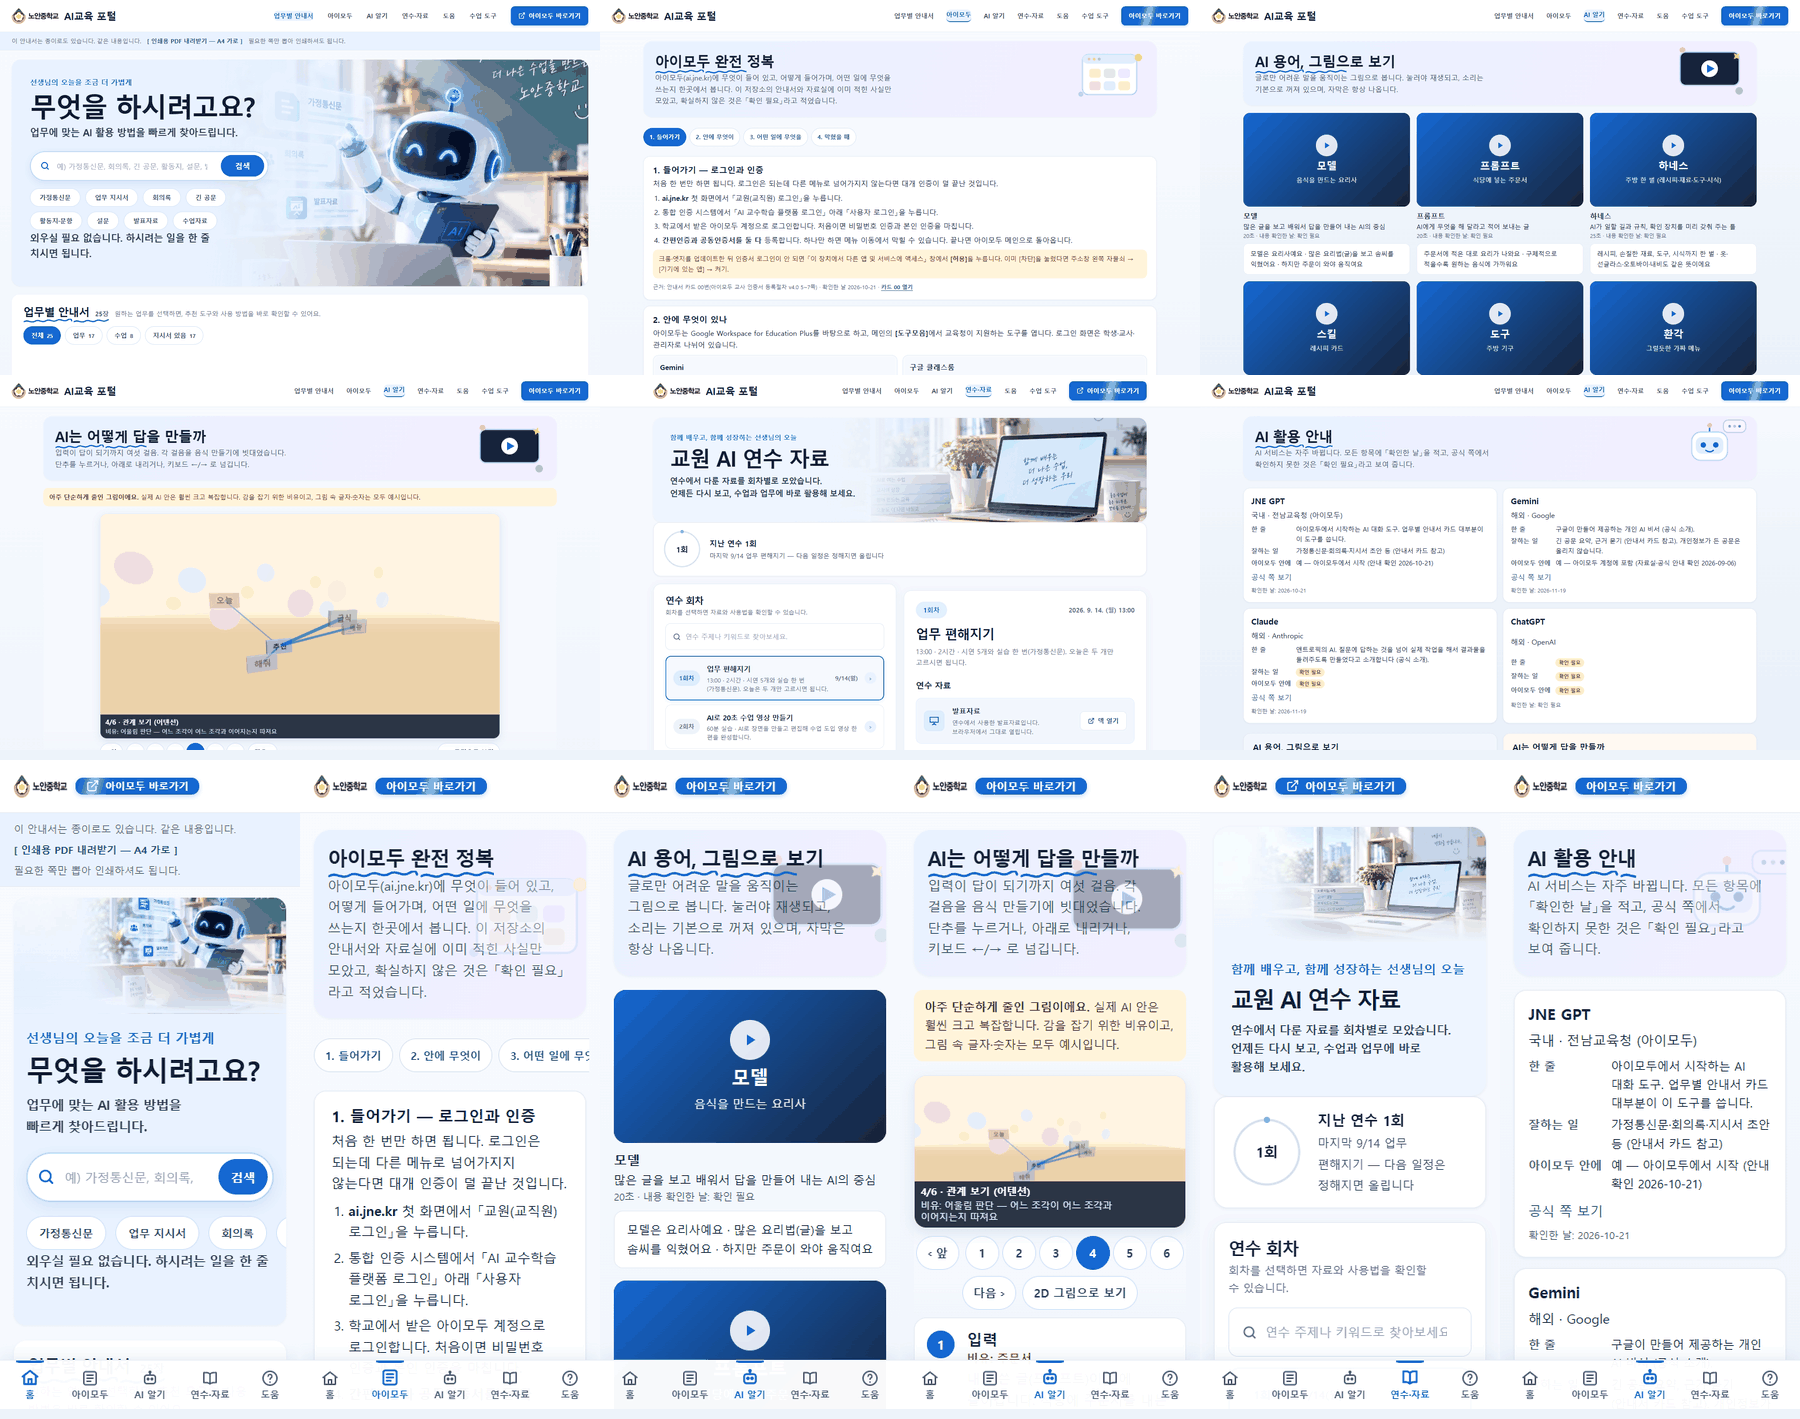
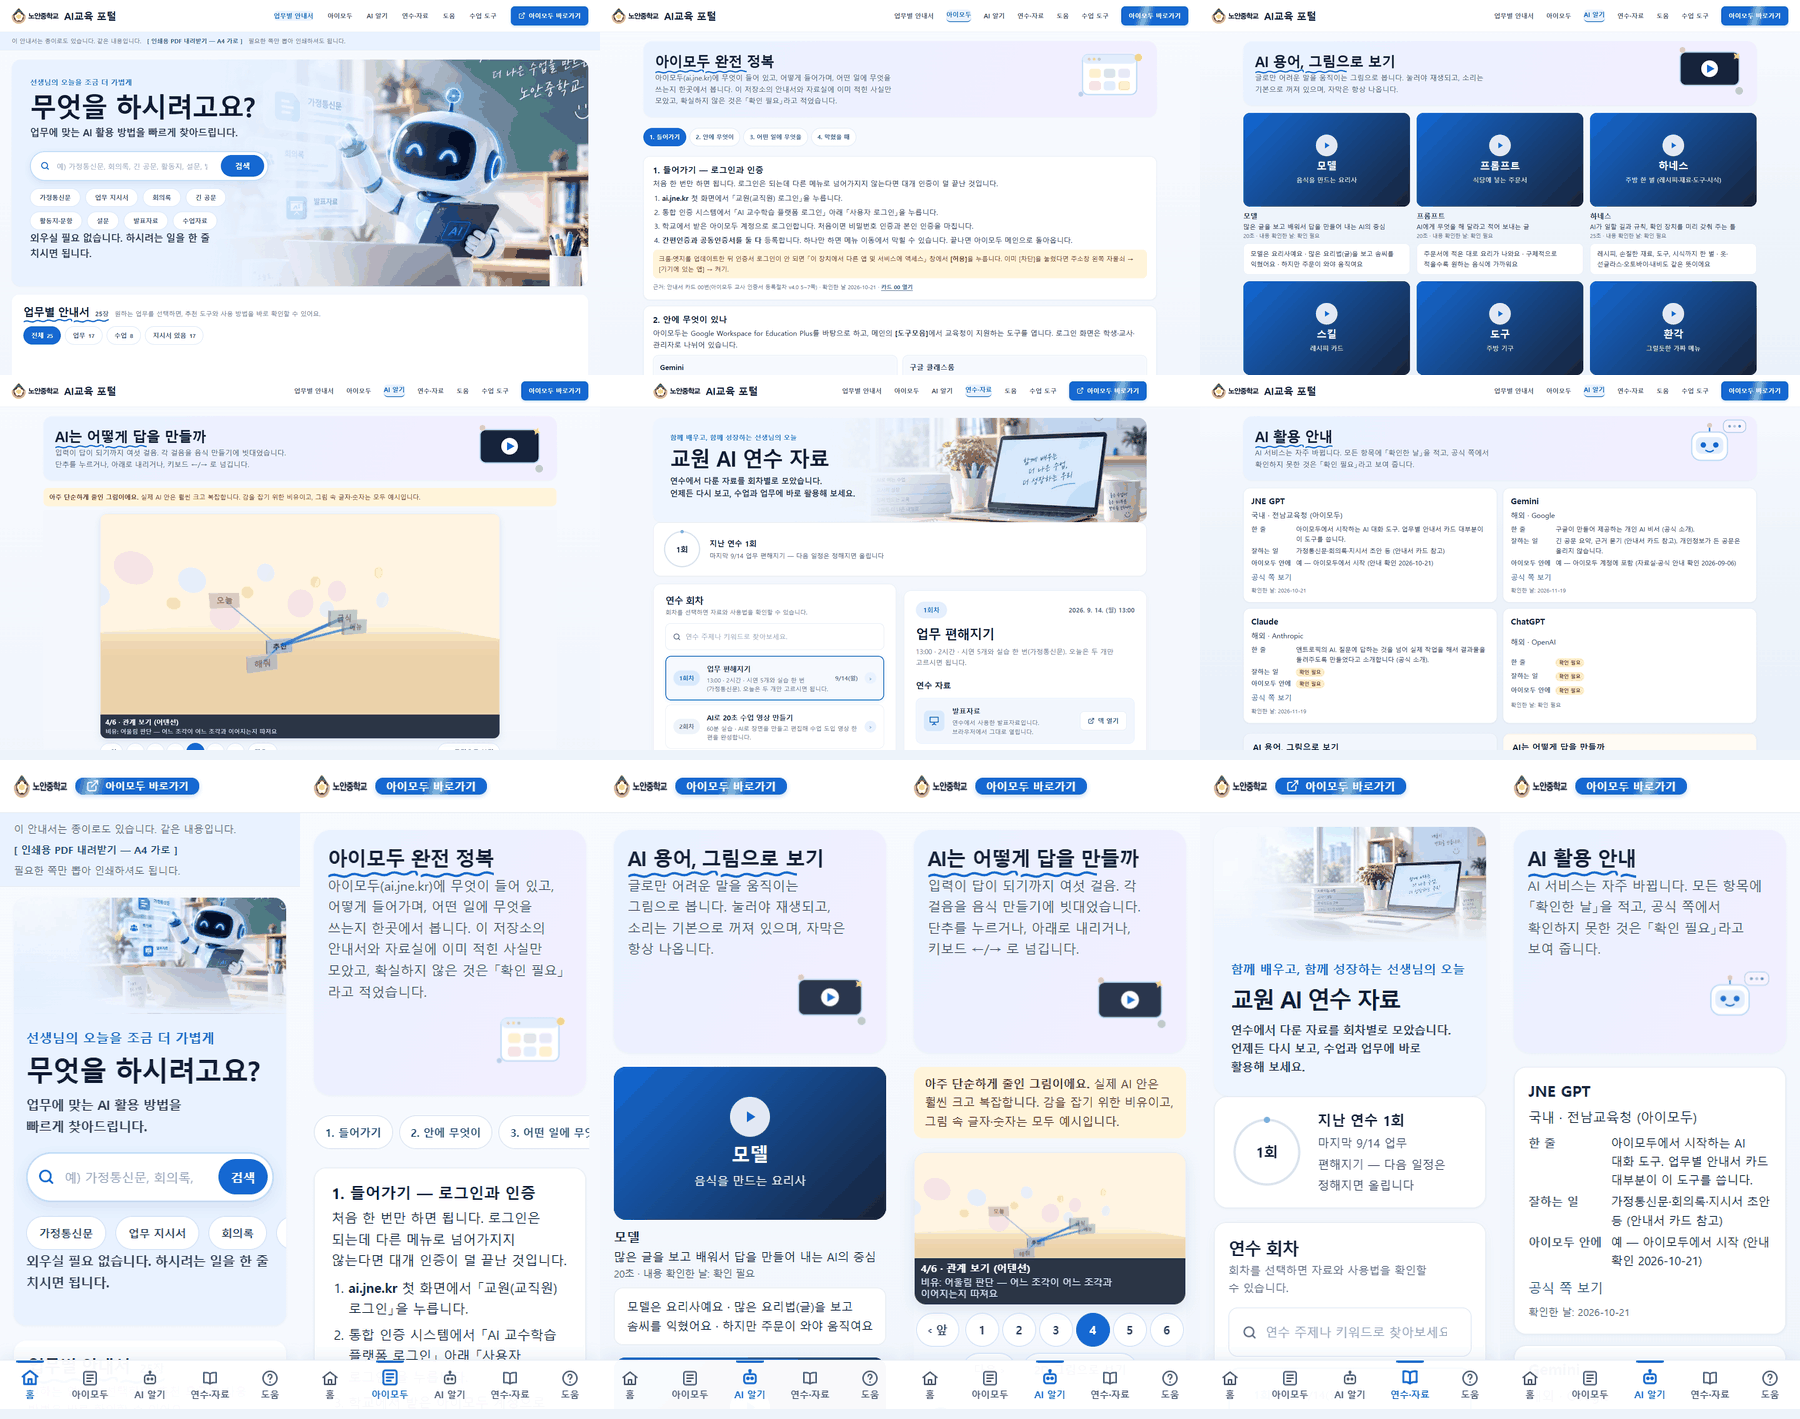
fix(ui): stack hero illustration below text on narrow widths; 3D step 3 gets cluster discs, labels and hint

diff --git a/how-ai-answers/scene3d.js b/how-ai-answers/scene3d.js
@@ -33,7 +33,7 @@
     var dl = new T.DirectionalLight(0xffffff, 0.45); dl.position.set(4, 8, 6); scene.add(dl);
 
     var floor = new T.Mesh(new T.PlaneGeometry(60, 60), new T.MeshBasicMaterial({ color: 0xEBD2AA }));
-    floor.rotation.x = -Math.PI / 2; floor.position.y = -2.4; scene.add(floor);
+    floor.rotation.x = -Math.PI / 2; floor.position.y = -4.6; scene.add(floor);
     /* 멀리 있는 배경 동그라미들 — 돌리 줌에서 배경이 늘어나 보이게 한다 */
     var bg = new T.Group(); scene.add(bg);
     for (var b = 0; b < 14; b++) {
@@ -88,6 +88,22 @@
     var ansG = new T.Group(); ansG.add(new T.Mesh(new T.PlaneGeometry(5.4, 1.12), ansM));
     var ans = mk(ansG, [ansM]);
 
+
+    /* 의미 공간 설명: 비슷한 뜻끼리 묶인 둥근 자리와 이름표 */
+    function disc(col, r, lbl, pos, lp) {
+      var g = new T.Group();
+      var dm = new T.MeshBasicMaterial({ color: col, transparent: true });
+      var d = new T.Mesh(new T.CircleGeometry(r, 40), dm); g.add(d);
+      var tm = new T.MeshBasicMaterial({ map: canvasTex(lbl, 512, 112, null, '#6B5A45', 58), transparent: true });
+      var tp = new T.Mesh(new T.PlaneGeometry(3.6, .8), tm); tp.position.set(0, -r - .5, .05); g.add(tp);
+      var o = mk(g, [dm, tm]); o.max = 0.5; o.pos = pos; return o;
+    }
+    var discA = disc(0xA9DCC0, 2.0, '음식 이야기', [2.0, 0.4, 0.2]);
+    var discB = disc(0xC9B6F8, 1.7, '부탁하는 말', [-1.35, -1.05, -0.9]);
+    var hintM = new T.MeshBasicMaterial({ map: canvasTex('뜻이 비슷하면 가까이 놓여요', 896, 120, '#FFFDF7', '#5B4A36', 58), transparent: true });
+    var hintG = new T.Group(); hintG.add(new T.Mesh(new T.PlaneGeometry(7, .94), hintM));
+    var hint = mk(hintG, [hintM]);
+
     var step = 0, camT = { x: 0, y: .6, z: 9.5 }, camC = { x: 0, y: .6, z: 9.5 }, look = { x: 0, y: 0, z: 0 };
     var running = false, raf = 0, last = 0, clock = 0, dolly = -1, picked = 0;
 
@@ -102,8 +118,9 @@
         toks.forEach(function (o, i) { setT(o, ROW(i), 1, 1); });
         camT = { x: 0, y: .9, z: 12 };
       } else if (n === 2) {
-        toks.forEach(function (o, i) { setT(o, SPACE[i], .8, 1); });
-        camT = { x: 4.2, y: 2.2, z: 8.6 };
+        toks.forEach(function (o, i) { setT(o, SPACE[i], 1.15, 1); });
+        setT(discA, discA.pos, 1, .45); setT(discB, discB.pos, 1, .45); setT(hint, [0, -3.6, 1], 1, 1);
+        camT = { x: 0.3, y: -0.3, z: 12 };
       } else if (n === 3) {
         toks.forEach(function (o, i) { setT(o, SPACE[i], .8, i === 3 ? 1 : .55); });
         links.forEach(function (l) { if (l.w > 0) setT(l.o, SPACE[3], 1, .35 + l.w); });

diff --git a/shared/app.css b/shared/app.css
@@ -465,3 +465,9 @@ section[id^="sec-"] { scroll-margin-top: 64px; }
 }
 .orbit { display: inline-block; width: 22px; height: 22px; vertical-align: -5px; margin-right: 8px; border: 2px solid #C3D6EE; border-radius: 50%; box-sizing: border-box; }
 @media print { .toast, .sec-nav, .m-tear, .m-rack { display: none !important; } }
+
+/* 폰 폭: 쪽 머리 그림이 글자를 덮지 않게 — 글 아래로 내려 작게 놓는다 */
+@media (max-width: 1099px) {
+  .page-hero { display: flex; flex-direction: column; }
+  .page-hero .slot-art { position: static; order: 3; width: 110px; height: 88px; margin: 6px 0 0 auto; opacity: .9; }
+}
